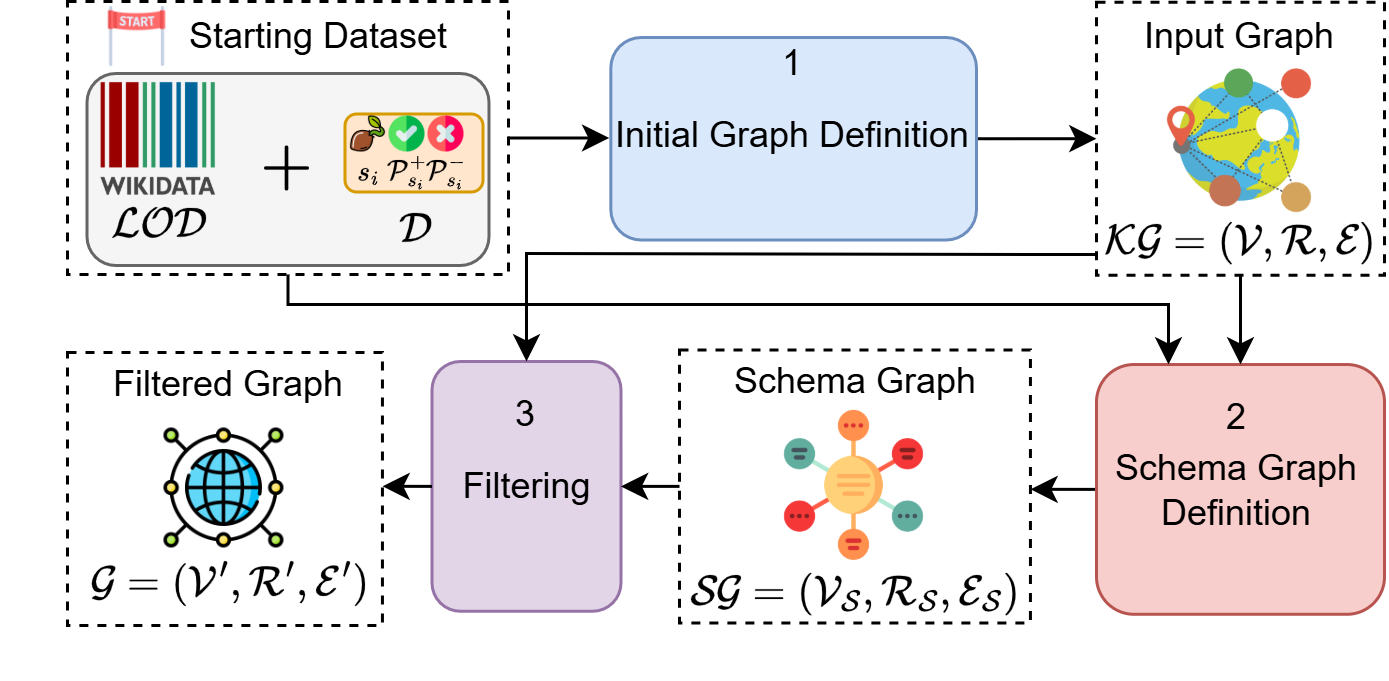
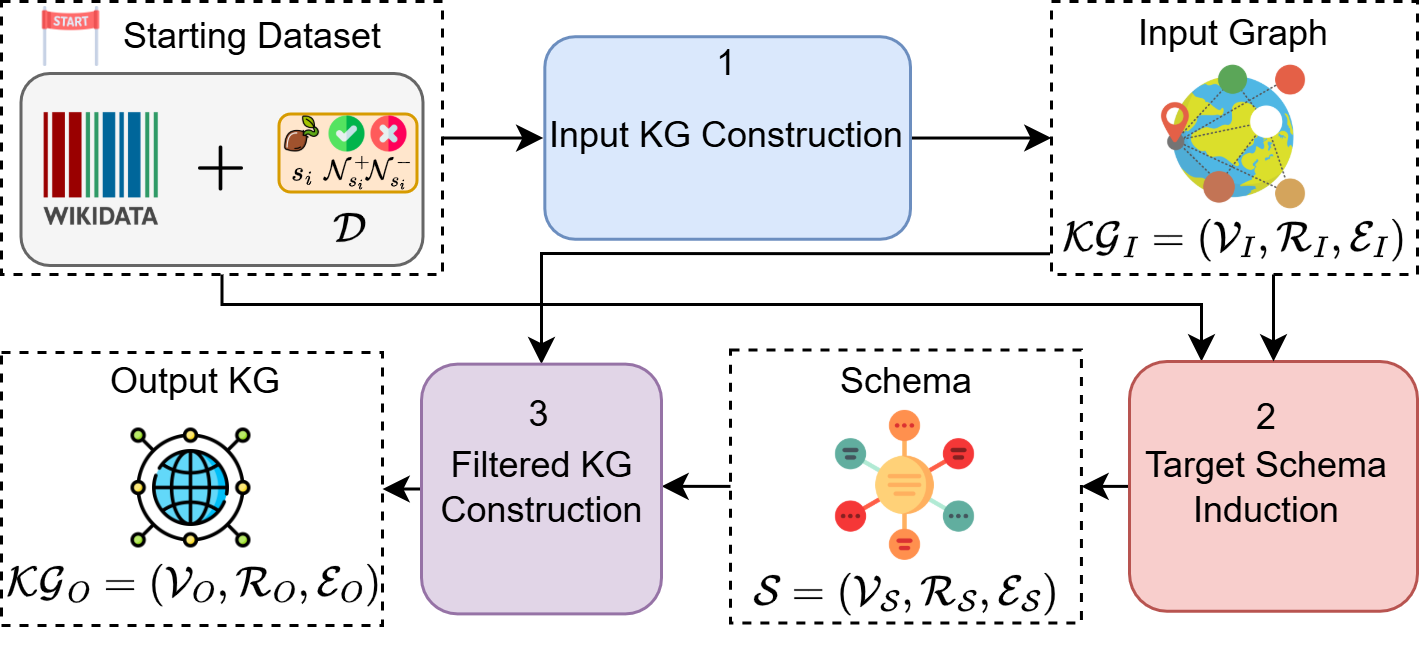
Update README.md to clarify graph definitions and enhance schema descriptions

Changed region(s): [[0.0, 0.0, 1.0, 0.9831], [0.2167, 0.9524, 0.2477, 0.9831], [0.1548, 0.9524, 0.1857, 0.9831]]

diff --git a/README.md b/README.md
@@ -24,11 +24,11 @@ In this work, we instantiate the pipeline using the [Wikidata Thematic Subgraph 
 
 The pipeline takes two inputs — a **LOD graph** and a **seed-centric dataset** (encoding positive and negative relevance decisions per seed node) — and produces three outputs through sequential stages:
 
-1. **Initial Graph Definition**: The input $\mathcal{LOD}$ and dataset $\mathcal{D}$ are combined to construct the starting knowledge graph $\mathcal{KG} = (\mathcal{V}, \mathcal{R}, \mathcal{E})$, which includes both relevant and irrelevant entities and relations, ensuring the filtering task is non-trivial.
+1. **Initial Graph Definition**: The input LOD (e.g. Wikidata) and dataset $\mathcal{D}$ are combined to construct the starting knowledge graph $\mathcal{KG}_i = (\mathcal{V}_I, \mathcal{R}_I, \mathcal{E}_I)$, which includes both relevant and irrelevant entities and relations, ensuring the filtering task is non-trivial.
 
-2. **Schema Graph Definition**: A domain-specific schema graph $\mathcal{SG} = (\mathcal{V}{\mathcal{S}}, \mathcal{R}{\mathcal{S}}, \mathcal{E}{\mathcal{S}})$ is derived from the seed nodes and their associated positive/negative sets, defining the target node and edge types that the filtered graph must conform to.
+2. **Schema Graph Definition**: A domain-specific schema $\mathcal{S} = (\mathcal{V}{\mathcal{S}}, \mathcal{R}{\mathcal{S}}, \mathcal{E}{\mathcal{S}})$ is derived from the seed nodes and their associated positive/negative sets, defining the target node and edge types that the filtered graph must conform to.
 
-3. **Filtered Graph**: Given KG and SG, the ground-truth filtered graph $\mathcal{G} = (\mathcal{V}', \mathcal{R}', \mathcal{E}')$ is constructed by selecting and relabeling only those nodes and edges from KG that are consistent with the structural and semantic constraints encoded in SG.
+3. **Filtered Graph**: Given $\mathcal{KG}_I$ and $\mathcal{S}$, the ground-truth filtered graph $\mathcal{KG}_O = (\mathcal{V}_O, \mathcal{R}_O, \mathcal{E}_O)$ is constructed by selecting and relabeling only those nodes and edges from KG that are consistent with the structural and semantic constraints encoded in SG.
 
 > **Note:** While the pipeline is fully general and can accommodate any LOD source and relevance dataset D, in this project we instantiate it using **Wikidata** as the LOD graph and the **[Wikidata Thematic Subgraph Selection Dataset](https://doi.org/10.5281/zenodo.8091584)** as D.
 
@@ -257,14 +257,14 @@ These structural distributions characterize both **Dataset 1** and **Dataset 2**
 
 <div align="center">
 
-|          | $\vert\mathcal{V}\vert$|   $\vert\mathcal{E}\vert$ |$\vert\mathcal{R}\vert$ |$\vert\mathcal{V}_{\mathcal{S}}\vert$|$\vert\mathcal{E}_{\mathcal{S}}\vert$|$\vert\mathcal{R}_{\mathcal{S}}\vert$|$\vert\mathcal{V}'\vert$|$\vert\mathcal{E}'\vert$|$\vert\mathcal{R}'\vert$|
+|          | $\vert\mathcal{V}_I\vert$|   $\vert\mathcal{E}_I\vert$ |$\vert\mathcal{R}_I\vert$ |$\vert\mathcal{V}_{\mathcal{S}}\vert$|$\vert\mathcal{E}_{\mathcal{S}}\vert$|$\vert\mathcal{R}_{\mathcal{S}}\vert$|$\vert\mathcal{V}_O\vert$|$\vert\mathcal{E}_O\vert$|$\vert\mathcal{R}_O\vert$|
 |:---------|-----------:|-----------:|---------------------:|-----------:|-----------:|---------------------:|----------:|----------:|--------------------:|
 | Dataset1 |     304982 |     299193 |                46295 |       5030 |      58868 |                    2 |    233013 |    249186 |               29434 |
 | Dataset2 |      82044 |      59393 |                 6568 |       1279 |       8606 |                    2 |     72915 |     54920 |                4303 |
 
 </div>
 
-This table highlights the KG4FUN statistics. While $\mathcal{KG}$ exhibits large scale and high relational diversity—especially in **Dataset 1**—the corresponding schema graphs $\mathcal{SG}$ remain compact. The filtered graphs $\mathcal{G}$ retain a substantial portion of nodes and edges, while significantly reducing the number of relation types, reflecting the aggregation of fine-grained predicates into higher-level abstractions.
+This table highlights the KG4FUN statistics. While $\mathcal{KG}_I$ exhibits large scale and high relational diversity—especially in **Dataset 1**—the corresponding schema graphs $\mathcal{S}$ remain compact. The filtered graphs $\mathcal{KG}_O$ retain a substantial portion of nodes and edges, while significantly reducing the number of relation types, reflecting the aggregation of fine-grained predicates into higher-level abstractions.
 
 ## LLM-Generation
 <table>
